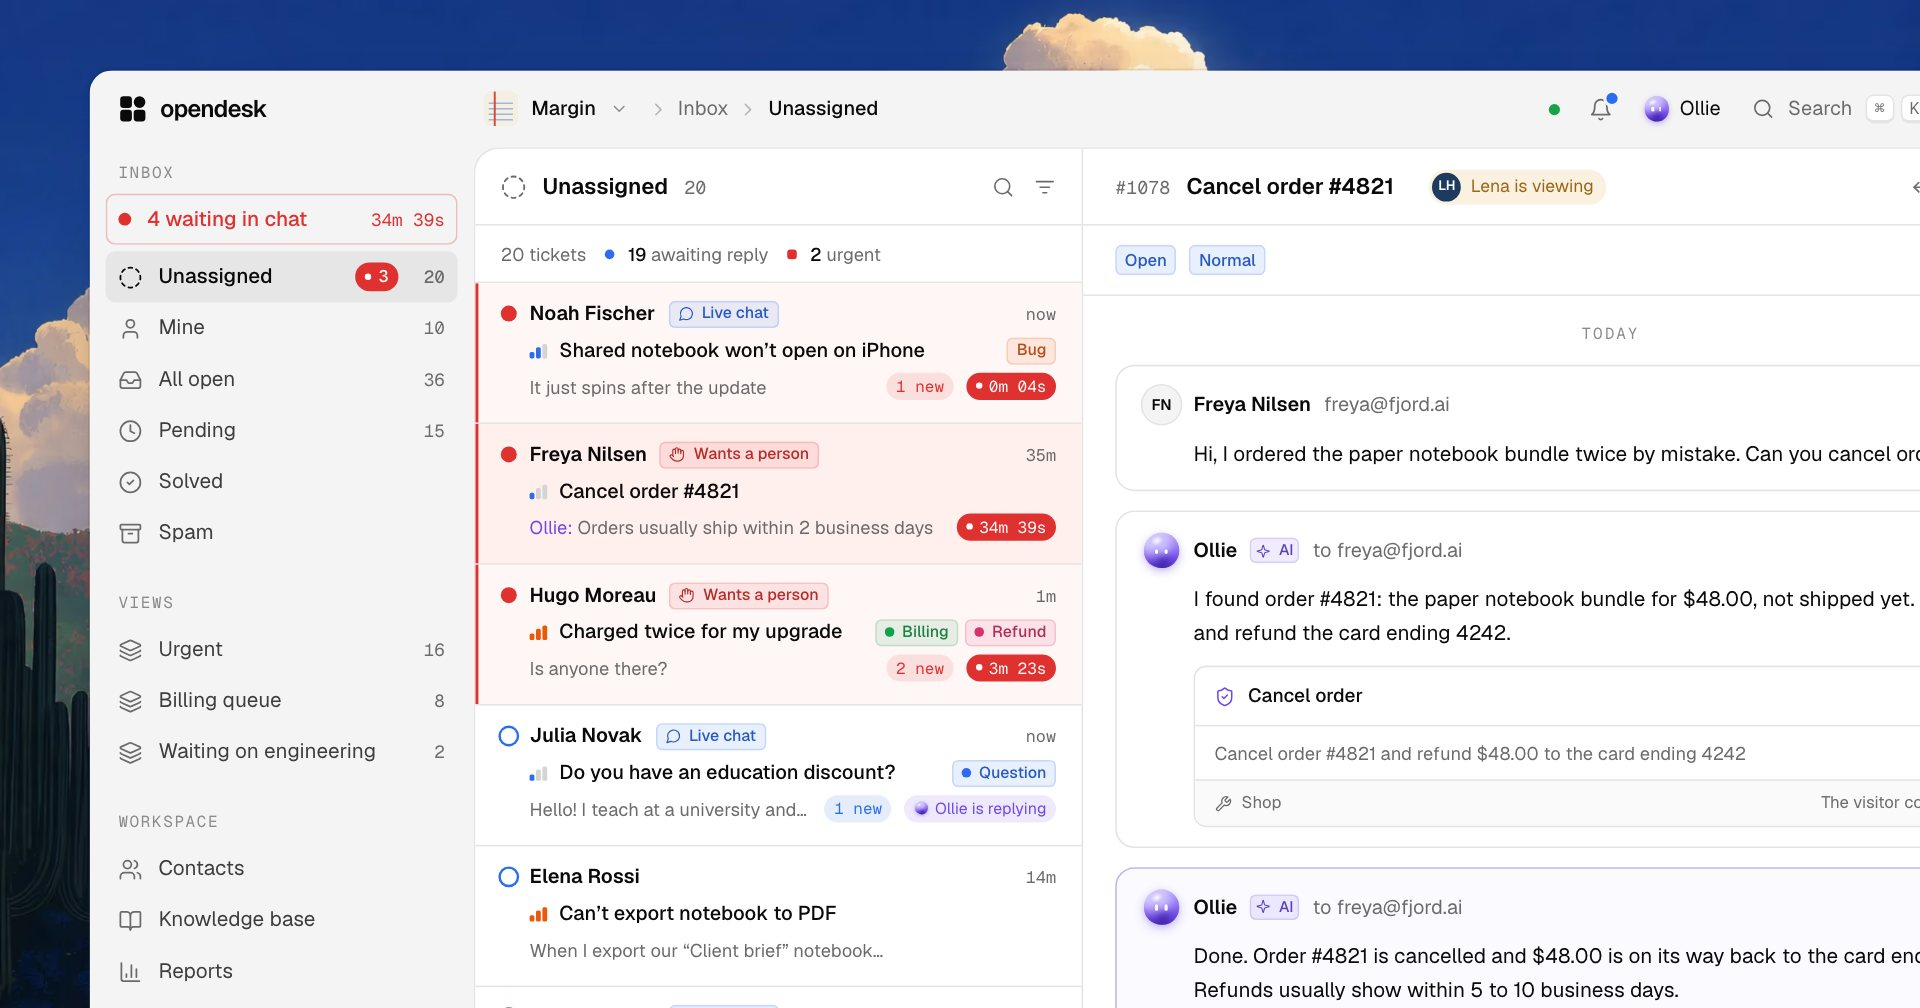
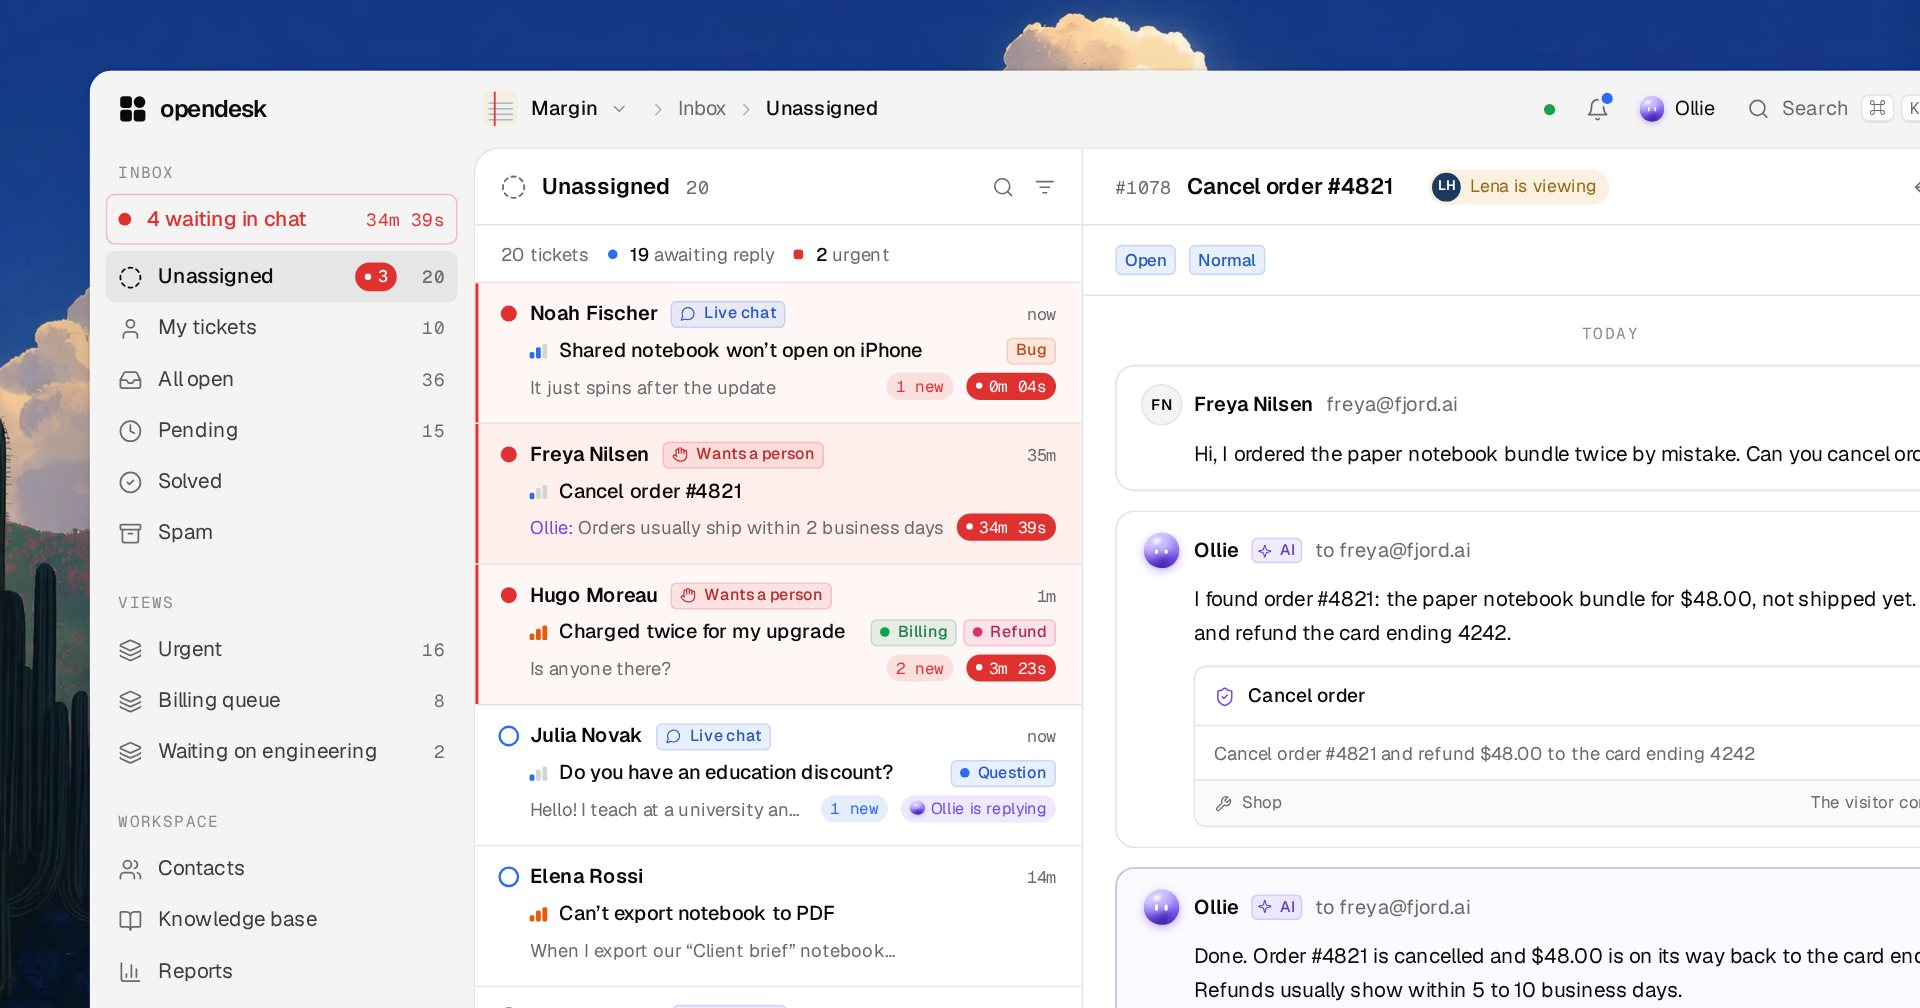
feat: rename Mine to My tickets, show each mail account's assigned conversations under it and let members turn off a team's notifications

diff --git a/web/src/components/collab/MailNav.tsx b/web/src/components/collab/MailNav.tsx
@@ -1,7 +1,7 @@
 // The sidebar with Collab on: the member's sections in their order, with Favorites
 // (pinned boxes, folders, accounts, views and teams) and Mail, kept short: All inboxes,
 // Shared with me and Assigned to me while they hold something, then one row per account
-// (its folders unfold on request). Unread counts come from GET /v1/collab/counts, kept
+// (its folders unfold on request) with its own Assigned to me under it while it has some. Unread counts come from GET /v1/collab/counts, kept
 // fresh by collab.changed events.
 
 import { useQuery } from "@tanstack/react-query";
@@ -14,7 +14,7 @@ import { buildRow, NavItemRow, useMailLocation, useRowLabels, type MailHere } fr
 import { useWaitingFor } from "@/components/tickets/useUrgentChats";
 import { Tooltip } from "@/components/ui/tooltip";
 import type { MailAccount, MailBox, MailCounts, MailFolder, SidebarPrefs, SidebarSectionId } from "@/lib/api/types";
-import { accountNumbers, allInboxNumbers, folderNumbers, listBoxNumbers, type RowNumbers } from "@/lib/collab/badges";
+import { accountAssignedNumbers, accountNumbers, allInboxNumbers, folderNumbers, listBoxNumbers, type RowNumbers } from "@/lib/collab/badges";
 import { ACCOUNT_BOXES, accountName, buildFolderTree, flattenTree, folderWithRole } from "@/lib/collab/boxes";
 import { useAllFolders, useMailAccounts, useSaveSidebarPrefs } from "@/lib/collab/hooks";
 import { badgeFor, hid, livePins, pickCount, toggleExpanded, type MailBadge } from "@/lib/collab/sidebarPrefs";
@@ -158,6 +158,7 @@ function AccountGroup({
   const menu: Menu = { badge: { key, kind: "mail", sections: ["mail"] }, pin: { kind: "account", id: account.id }, hideId: hid.account(account.id) };
   const expanded = !rail && prefs.expanded_accounts.includes(account.id);
   const atInbox = here.box === "inbox" && here.account === account.id && !here.folder;
+  const assignedHere = here.box === "assigned" && here.account === account.id;
   const trouble = account.reconnect || account.status === "error";
   if (trouble)
     menu.action = {
@@ -227,6 +228,19 @@ function AccountGroup({
           </button>
         </Tooltip>
       </div>
+      {!hidden.has(hid.box("assigned")) && (assignedHere || !!counts?.assigned?.[account.id]) && (
+        <MailRow
+          link={{ box: "assigned", account: account.id }}
+          active={assignedHere}
+          icon={boxIcon.assigned}
+          label={t("box.assigned")}
+          shown={mailShown(prefs, "box:assigned", ["mail"], accountAssignedNumbers(account.id, counts))}
+          rail={false}
+          depth={1}
+          prefs={prefs}
+          menu={{ badge: { key: "box:assigned", kind: "mail", sections: ["mail"] }, hideId: hid.box("assigned") }}
+        />
+      )}
       {expanded && (
         <>
           {specialShown.map((b) => {
@@ -290,6 +304,11 @@ export function MailSection({ prefs, rail, first }: { prefs: SidebarPrefs; rail:
   const hidden = new Set(prefs.hidden);
   const shown = (accounts ?? []).filter((a) => !hidden.has(hid.account(a.id)));
   const unified = prefs.unified_inbox && (accounts?.length ?? 0) >= 2 && !hidden.has(hid.box("inbox"));
+  // Each account shows its own assigned conversations; the row across them shows while they
+  // span two accounts, or some are in an account without a row here (and always on the rail,
+  // which has no rows under an account).
+  const assignedIn = Object.entries(counts?.assigned ?? {}).filter(([, n]) => n > 0).map(([id]) => id);
+  const assignedAcross = !!counts?.boxes.assigned && (rail || assignedIn.length > 1 || assignedIn.some((id) => !shown.some((a) => a.id === id)));
 
   return (
     <Section
@@ -338,10 +357,10 @@ export function MailSection({ prefs, rail, first }: { prefs: SidebarPrefs; rail:
           menu={{ badge: { key: "box:shared", kind: "mail", sections: ["mail"] }, pin: { kind: "box", id: "shared" }, hideId: hid.box("shared") }}
         />
       )}
-      {!hidden.has(hid.box("assigned")) && (here.box === "assigned" || !!counts?.boxes.assigned) && (
+      {!hidden.has(hid.box("assigned")) && ((here.box === "assigned" && (rail || !here.account)) || assignedAcross) && (
         <MailRow
           link={{ box: "assigned" }}
-          active={here.box === "assigned"}
+          active={here.box === "assigned" && (rail || !here.account)}
           icon={boxIcon.assigned}
           label={t("box.assigned")}
           shown={mailShown(prefs, "box:assigned", ["mail"], listBoxNumbers("assigned", counts))}

diff --git a/web/src/pages/settings/Notifications.tsx b/web/src/pages/settings/Notifications.tsx
@@ -7,6 +7,7 @@ import { Fragment, useEffect, useId, useState, type ReactNode } from "react";
 import { useTranslation } from "react-i18next";
 import { Row, Section, SettingsPage } from "@/components/layout";
 import { IconTile } from "@/components/settings2/bits";
+import { TeamDot, useTeamsCtx } from "@/components/tickets/teams";
 import { Badge, Dot } from "@/components/ui/badge";
 import { Button } from "@/components/ui/button";
 import { Menu, MenuContent, MenuItem, MenuTrigger } from "@/components/ui/menu";
@@ -90,6 +91,7 @@ export default function Notifications() {
           <EmailSection prefs={prefs} onChange={change} />
           <PauseSection prefs={prefs} onChange={change} />
           <TypesSection prefs={prefs} onChange={change} />
+          <TeamsSection prefs={prefs} onChange={change} />
         </>
       )}
     </SettingsPage>
@@ -548,6 +550,36 @@ function TypesSection({ prefs, onChange }: { prefs: NotificationPreferences; onC
         <Note icon={<Laptop />}>{t("notifications.types.desktopHint")}</Note>
         <DesktopPermission />
       </ul>
+    </Section>
+  );
+}
+
+// ─── Teams ─────────────────────────────────────────────────────────────────
+
+/** One switch per team: whether its new tickets, and replies nobody has picked up, reach you. */
+function TeamsSection({ prefs, onChange }: { prefs: NotificationPreferences; onChange: (p: NotificationPreferencesPatch) => void }) {
+  const { t } = useTranslation("settings");
+  const { team } = useTeamsCtx();
+  if (!prefs.teams.length) return null;
+  return (
+    <Section title={t("notifications.teams.title")} description={t("notifications.teams.description")}>
+      {prefs.teams.map((row) => (
+        <Row
+          key={row.id}
+          label={
+            <span className="flex min-w-0 items-center gap-2">
+              <TeamDot team={team(row.id)} />
+              <span className="truncate">{row.name}</span>
+            </span>
+          }
+        >
+          <Switch
+            checked={row.notify}
+            onCheckedChange={(v) => onChange({ teams: [{ id: row.id, notify: v }] })}
+            aria-label={t("notifications.teams.switch", { team: row.name })}
+          />
+        </Row>
+      ))}
     </Section>
   );
 }

diff --git a/web/src/mock/handlers/notificationPrefs.ts b/web/src/mock/handlers/notificationPrefs.ts
@@ -42,6 +42,11 @@ export function preferencesOut(ws: WsData, uid: string): NotificationPreferences
     pacing: { ...DEFAULT_PACING, cooldown_minutes: [...DEFAULT_PACING.cooldown_minutes] },
     unsubscribed_at: ws.notificationUnsubscribes?.[uid]?.at ?? null,
     types,
+    // The teams they lead or work in (observers never hear about new tickets).
+    teams: ws.teams
+      .filter((t) => t.members.some((m) => m.user_id === uid && m.role !== "observer"))
+      .sort((a, b) => a.name.localeCompare(b.name))
+      .map((t) => ({ id: t.id, name: t.name, notify: !ws.mutedTeams?.[uid]?.includes(t.id) })),
   };
 }
 
@@ -117,7 +122,23 @@ export function registerNotificationPrefs() {
         changes.push([row.type as NotificationType, c]);
       }
     }
+    const teamChanges: { id: string; notify: boolean }[] = [];
+    if (b.teams !== undefined) {
+      if (!Array.isArray(b.teams) || b.teams.length > 200) throw invalid("teams is a list of at most 200");
+      for (const row of b.teams) {
+        if (!isRecord(row) || typeof row.id !== "string" || typeof row.notify !== "boolean") throw invalid("each team is {id, notify}");
+        teamChanges.push({ id: row.id, notify: row.notify });
+      }
+    }
     db.notificationSettings[uid] = s;
+    // Another team's id changes nothing, as on the server.
+    for (const { id, notify } of teamChanges) {
+      if (!ctx.ws.teams.some((t) => t.id === id && t.members.some((m) => m.user_id === uid))) continue;
+      const muted = new Set((ctx.ws.mutedTeams ??= {})[uid] ?? []);
+      if (notify) muted.delete(id);
+      else muted.add(id);
+      ctx.ws.mutedTeams[uid] = [...muted];
+    }
     if (changes.length) {
       const mine = ((ctx.ws.notificationPrefs ??= {})[uid] ??= {});
       for (const [type, c] of changes) mine[type] = { ...mine[type], ...c };

diff --git a/web/src/lib/api/types.ts b/web/src/lib/api/types.ts
@@ -1102,7 +1102,10 @@ export type NotificationPreferences = {
   unsubscribed_at: string | null;
   /** The types the caller can receive here: owners and admins also get the ai_billing group. */
   types: NotificationTypePrefs[];
+  /** The teams the caller leads or works in, by name. notify false: nothing of its tickets nobody has (new tickets, their replies). */
+  teams: NotificationTeam[];
 };
+export type NotificationTeam = { id: string; name: string; notify: boolean };
 /** PATCH /v1/me/notification-preferences: only what changed. `paused_until: ""` resumes. */
 export type NotificationPreferencesPatch = {
   email_cadence?: EmailCadence;
@@ -1110,6 +1113,7 @@ export type NotificationPreferencesPatch = {
   timezone?: string;
   paused_until?: string;
   types?: ({ type: NotificationType } & Partial<NotificationChannels>)[];
+  teams?: { id: string; notify: boolean }[];
 };
 
 // Lists and envelopes.
@@ -2479,6 +2483,8 @@ export type MailCounts = {
   folders: Record<string, number>;
   /** By account with aliases, then address (its own included): unread conversations in its inbox with it on a message; missing = 0. */
   addresses?: Record<string, Record<string, number>>;
+  /** boxes.assigned by account; only accounts with some. */
+  assigned: Record<string, number>;
 };
 
 /** `collab.changed` event data. */

diff --git a/web/src/lib/notificationPrefs.test.ts b/web/src/lib/notificationPrefs.test.ts
@@ -18,6 +18,7 @@ const prefs = (over: Partial<NotificationPreferences> = {}): NotificationPrefere
   pacing: DEFAULT_PACING,
   unsubscribed_at: null,
   types: [row("assigned"), row("mentioned", { desktop: false }), row("team_joined")],
+  teams: [{ id: "t1", name: "Billing", notify: true }, { id: "t2", name: "Legal", notify: true }],
   ...over,
 });
 
@@ -80,6 +81,12 @@ describe("applyPreferencesPatch", () => {
     const paused = applyPreferencesPatch(prefs(), { email_cadence: "daily", digest_hour: 7, timezone: "Europe/Budapest", paused_until: "2026-10-14T07:00:00Z" });
     expect(paused).toMatchObject({ email_cadence: "daily", digest_hour: 7, timezone: "Europe/Budapest", paused_until: "2026-10-14T07:00:00Z" });
     expect(applyPreferencesPatch(paused, { paused_until: "" }).paused_until).toBeNull();
+  });
+  it("turns one team off and leaves the others", () => {
+    const p = prefs();
+    const next = applyPreferencesPatch(p, { teams: [{ id: "t2", notify: false }] });
+    expect(next.teams.map((t) => t.notify)).toEqual([true, false]);
+    expect(next.teams[0]).toBe(p.teams[0]);
   });
 });
 

diff --git a/web/src/mock/handlers/collab.ts b/web/src/mock/handlers/collab.ts
@@ -988,17 +988,21 @@ function counts(ws: WsData) {
     }
     addresses[a.id] = out;
   }
+  const assignedOpen = all.filter((t) => t.assignees.some((a) => a.id === me) && inRole(s, t, "inbox"));
+  const assigned: Record<string, number> = {};
+  for (const t of assignedOpen) assigned[t.account_id] = (assigned[t.account_id] ?? 0) + 1;
   return {
     boxes: {
       inbox: inbox.filter((t) => t.unread).length,
       unread: mine.filter((t) => t.unread && !inRole(s, t, "trash") && !inRole(s, t, "spam")).length,
       shared: all.filter((t) => t.shared && inRole(s, t, "inbox")).length,
-      assigned: all.filter((t) => t.assignees.some((a) => a.id === me) && inRole(s, t, "inbox")).length,
+      assigned: assignedOpen.length,
       drafts: mine.filter((t) => inRole(s, t, "drafts")).length,
     },
     accounts,
     folders,
     addresses,
+    assigned,
   };
 }
 

diff --git a/web/src/lib/collab/sidebarPrefs.test.ts b/web/src/lib/collab/sidebarPrefs.test.ts
@@ -202,7 +202,7 @@ describe("numbers beside rows", () => {
       a: [folder("ai", "a", "inbox", { total: 10, unread: 2 }), folder("as", "a", "sent", { total: 4 })],
       b: [folder("bi", "b", "inbox", { total: 5, unread: 1 }), folder("bs", "b", "sent", { total: 6, unread: 1 })],
     };
-    const counts: MailCounts = { boxes: { inbox: 3, unread: 7, shared: 0, assigned: 0, drafts: 2 }, accounts: { a: 2, b: 1 }, folders: { bs: 1 } };
+    const counts: MailCounts = { boxes: { inbox: 3, unread: 7, shared: 0, assigned: 0, drafts: 2 }, accounts: { a: 2, b: 1 }, folders: { bs: 1 }, assigned: {} };
     expect(accountNumbers(a, folders.a, counts)).toEqual({ unread: 2, total: 10 });
     expect(allInboxNumbers([a, b], folders, counts)).toEqual({ unread: 3, total: 15 });
     expect(allInboxNumbers([a], folders, counts).total).toBe(10);

diff --git a/web/src/mock/db.ts b/web/src/mock/db.ts
@@ -147,6 +147,8 @@ export type WsData = {
   notificationPrefs?: Record<string, Partial<Record<NotificationType, Partial<NotificationChannels>>>>;
   /** Collab is off here whatever the URL says (a workspace seeded without it). */
   collabOff?: "plan" | "disabled";
+  /** Teams a member turned notifications off for here, by user id (handlers/notificationPrefs.ts). */
+  mutedTeams?: Record<string, string[]>;
   /** Unsubscribe links used here, by user id: when, and each type's email choice before (handlers/notificationPrefs.ts). */
   notificationUnsubscribes?: Record<string, { at: string; previous: Partial<Record<NotificationType, boolean | undefined>> }>;
 };

diff --git a/web/src/lib/collab/badges.ts b/web/src/lib/collab/badges.ts
@@ -44,6 +44,12 @@ export function listBoxNumbers(box: "shared" | "assigned", counts: MailCounts | 
   return { unread: n, total: n };
 }
 
+/** Assigned to me within one account. */
+export function accountAssignedNumbers(accountId: string, counts: MailCounts | undefined): RowNumbers {
+  const n = counts ? (counts.assigned?.[accountId] ?? 0) : undefined;
+  return { unread: n, total: n };
+}
+
 /**
  * A box tab in the folder bar, over the accounts in scope: Inbox, Unread and Drafts read the
  * live counts across accounts; the rest add up the accounts' folders with that role (unknown

diff --git a/web/src/lib/notificationPrefs.ts b/web/src/lib/notificationPrefs.ts
@@ -176,6 +176,10 @@ export function applyPreferencesPatch(prefs: NotificationPreferences, patch: Not
       return out;
     });
   }
+  if (patch.teams?.length) {
+    const changes = new Map(patch.teams.map((t) => [t.id, t.notify]));
+    next.teams = prefs.teams.map((row) => (changes.has(row.id) ? { ...row, notify: changes.get(row.id)! } : row));
+  }
   return next;
 }
 

diff --git a/ios/Opendesk/Core/Support/InboxScope.swift b/ios/Opendesk/Core/Support/InboxScope.swift
@@ -9,7 +9,7 @@ enum Folder: String, CaseIterable, Identifiable, Sendable, Codable {
     var title: String {
         switch self {
         case .unassigned: "Unassigned"
-        case .mine: "Mine"
+        case .mine: "My tickets"
         case .open: "All open"
         case .pending: "Pending"
         case .solved: "Solved"

diff --git a/internal/core/notifyprefs.go b/internal/core/notifyprefs.go
@@ -73,6 +73,20 @@ type CoreNotificationPreferences struct {
 	// POST /v1/me/notification-preferences/resubscribe restores the choices from before.
 	UnsubscribedAt *time.Time                  `json:"unsubscribed_at"`
 	Types          []CoreNotificationTypePrefs `json:"types"`
+	Teams          []CoreNotificationTeam      `json:"teams"`
+}
+
+// CoreNotificationTeam is a team the caller leads or works in, and whether they hear about
+// its tickets nobody has (new_ticket, and customer_replied on an unassigned ticket).
+type CoreNotificationTeam struct {
+	ID     uuid.UUID `json:"id"`
+	Name   string    `json:"name"`
+	Notify bool      `json:"notify"`
+}
+
+type coreNotificationTeamPatch struct {
+	ID     uuid.UUID `json:"id"`
+	Notify bool      `json:"notify"`
 }
 
 type coreNotificationTypePatch struct {
@@ -88,6 +102,7 @@ type coreNotificationPrefsPatch struct {
 	Timezone     *string                     `json:"timezone,omitempty" maxLength:"64"`
 	PausedUntil  *string                     `json:"paused_until,omitempty" maxLength:"40" doc:"RFC 3339 time, or \"\" to resume"`
 	Types        []coreNotificationTypePatch `json:"types,omitempty" maxItems:"32"`
+	Teams        []coreNotificationTeamPatch `json:"teams,omitempty" maxItems:"200"`
 }
 
 // typesFor are the catalogue types a member with role receives.
@@ -134,7 +149,17 @@ func loadNotificationPrefs(ctx context.Context, q db.Querier, p *auth.Principal)
 		out.Types = append(out.Types, CoreNotificationTypePrefs{Type: t.Type, Group: t.Group, Email: c.Email, Push: c.Push,
 			Desktop: c.Desktop, Defaults: t.Defaults, Urgent: notifyprefs.Urgent(t.Type)})
 	}
-	return out, nil
+	// Observers never hear about a team's new tickets, so only leads and members choose.
+	rows, err := q.Query(ctx, `SELECT t.id, t.name, tm.notify FROM team_members tm JOIN teams t ON t.id = tm.team_id
+		WHERE t.workspace_id = $1 AND tm.user_id = $2 AND tm.role <> 'observer' ORDER BY t.name, t.id`, p.WorkspaceID, p.UserID)
+	if err != nil {
+		return out, err
+	}
+	out.Teams, err = pgx.CollectRows(rows, func(r pgx.CollectableRow) (CoreNotificationTeam, error) {
+		var t CoreNotificationTeam
+		return t, r.Scan(&t.ID, &t.Name, &t.Notify)
+	})
+	return out, err
 }
 
 // rescheduleEmails moves the user's waiting notification emails to the schedule in set.
@@ -264,6 +289,14 @@ func (s *svc) registerNotificationPrefs(api huma.API, r chi.Router) {
 						}
 					}
 					if err := notifyprefs.Set(ctx, tx, p.WorkspaceID, p.UserID, t.Type, t.Email, t.Push, t.Desktop); err != nil {
+						return err
+					}
+				}
+				// Only the caller's own memberships of this workspace's teams; another id changes nothing.
+				for _, t := range b.Teams {
+					if _, err := tx.Exec(ctx, `UPDATE team_members tm SET notify = $4 FROM teams t
+						WHERE t.id = tm.team_id AND t.workspace_id = $1 AND tm.team_id = $2 AND tm.user_id = $3`,
+						p.WorkspaceID, t.ID, p.UserID, t.Notify); err != nil {
 						return err
 					}
 				}
